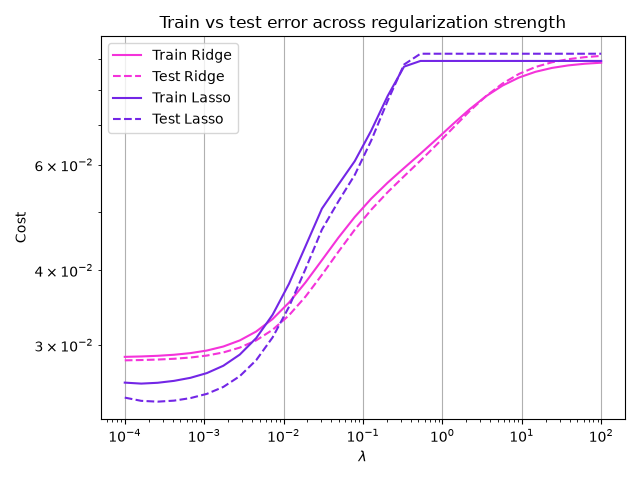
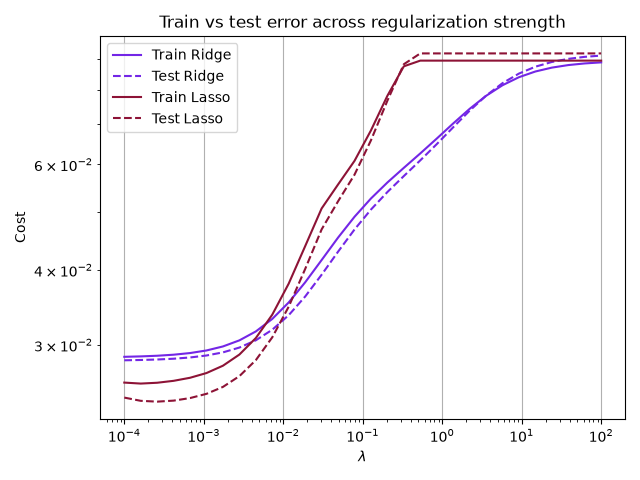
updated figures

diff --git a/Project_1/Code/_Part_g.py b/Project_1/Code/_Part_g.py
@@ -103,10 +103,10 @@ print(f"theta: |skl - cd| = {np.max(np.abs(theta_skl_lasso - history_lasso_cd[-1
 
 
 """Plot of cost vs iteration"""
-plt.plot(cost_Lasso_gd, label = "Lasso gradient descent", color = "#5DA0B6")
-plt.plot(cost_Lasso_cd, label = "Lasso coordinate descent", color = "#65AF60")
-plt.plot(cost_OLS, label = "OLS", color = "#F433DA")
-plt.plot(cost_Ridge, label = "Ridge", color = "#7326E6")
+plt.plot(cost_Lasso_gd, label = "Lasso gradient descent", color = LASSO_GD)
+plt.plot(cost_Lasso_cd, label = "Lasso coordinate descent", color = LASSE_COORDINATE_DESCENT)
+plt.plot(cost_OLS, label = "OLS", color = OLS)
+plt.plot(cost_Ridge, label = "Ridge", color = RIDGE)
 plt.xlabel("Iteration")
 plt.ylabel("Cost")
 plt.title("Cost function of gradient descent")
@@ -114,7 +114,7 @@ plt.xscale("log")
 #plt.yscale("log")
 plt.grid()
 plt.legend()
-plt.savefig(FIG_DIR/"Part_g_convergence_Lasso.png")
+#plt.savefig(FIG_DIR/"Part_g_convergence_Lasso.png")
 plt.show()
 
 
@@ -144,15 +144,15 @@ x = np.arange(len(labels))
 width = 0.35
 
 plt.figure(figsize=(8, 5))
-plt.bar(x - width/2, train_vals, width, label="Train MSE", color="#F433DA", alpha = 0.7)
-plt.bar(x + width/2, test_vals, width, label="Test MSE", color="#7326E6", alpha = 0.7)
+plt.bar(x - width/2, train_vals, width, label="Train MSE", color=TRAIN_DATA, alpha = 0.7)
+plt.bar(x + width/2, test_vals, width, label="Test MSE", color=TEST_DATA, alpha = 0.7)
 plt.xticks(x, labels, rotation=15)
 plt.ylabel("MSE")
 plt.title("Train vs. test MSE: OLS, Ridge, Lasso")
 plt.legend()
 plt.grid(axis='y', alpha=0.3)
 plt.tight_layout()
-plt.savefig(FIG_DIR/"Part_g_hist_testtrain_lasso.png")
+#plt.savefig(FIG_DIR/"Part_g_hist_testtrain_lasso.png")
 plt.show()
 
 """For different lambda values, comparing test and train"""
@@ -180,10 +180,10 @@ for lm in lambdas:
     thetas_Ridge.append(theta_lm_Ridge)     
     thetas_Lasso.append(theta_lm_Lasso)     
 
-plt.plot(lambdas, train_errs_Ridge, label="Train Ridge", color = "#F433DA")
-plt.plot(lambdas, test_errs_Ridge, label="Test Ridge", color = "#F433DA", linestyle = "--")
-plt.plot(lambdas, train_errs_Lasso, label="Train Lasso", color = "#7326E6")
-plt.plot(lambdas, test_errs_Lasso, label="Test Lasso", color = "#7326E6", linestyle = "--")
+plt.plot(lambdas, train_errs_Ridge, label="Train Ridge", color = RIDGE)
+plt.plot(lambdas, test_errs_Ridge, label="Test Ridge", color = RIDGE, linestyle = "--")
+plt.plot(lambdas, train_errs_Lasso, label="Train Lasso", color = LASSO)
+plt.plot(lambdas, test_errs_Lasso, label="Test Lasso", color = LASSO, linestyle = "--")
 plt.xscale("log")
 plt.yscale("log")
 plt.xlabel(r"$\lambda$")
@@ -192,12 +192,12 @@ plt.title("Train vs test error across regularization strength")
 plt.legend()
 plt.tight_layout()
 plt.grid()
-plt.savefig(FIG_DIR/"Part_g_cost_lambda_testtrain.png")
+#plt.savefig(FIG_DIR/"Part_g_cost_lambda_testtrain.png")
 plt.show()
 
 fig, (ax1, ax2) = plt.subplots(2, 1, figsize=(7, 7), sharey=True)
 
 plot_theta(thetas_Ridge, lambdas, xlabel=r'$\lambda$', title='Ridge coefficients', intercept=False, xlog=True, ax=ax1)
 plot_theta(thetas_Lasso, lambdas, xlabel=r'$\lambda$', title='Lasso coefficients', intercept=False, xlog=True, ax=ax2)
-plt.savefig(FIG_DIR/"Part_g_theta_lambda.png")
+#plt.savefig(FIG_DIR/"Part_g_theta_lambda.png")
 plt.show()

diff --git a/Project_1/Code/_Part_h.py b/Project_1/Code/_Part_h.py
@@ -49,9 +49,9 @@ H_Ridge = 2.0 / len(y) * X.T @ X + 2 * lam * np.eye(X.shape[1])
 gamma_max_OLS = 2.0 / np.linalg.eigvalsh(H_OLS).max()
 gammas_OLS = [0.01 * gamma_max_OLS, 0.1 * gamma_max_OLS, 0.5 * gamma_max_OLS]
 labels_gamma = [r"$0.01\, \gamma_{\max}$", r"$0.1\, \gamma_{\max}$", r"$0.5\, \gamma_{\max}$"]
-colors = ["#F433DA", "#7326E6", "#84BCED"]
+colors_gamma = [LR_LOW, LR_MID, LR_HIGH]
 
-for gamma, label, color in zip(gammas_OLS, labels_gamma, colors):
+for gamma, label, color in zip(gammas_OLS, labels_gamma, colors_gamma):
     hist, n_gamma = sgd(X, y, n_epochs=100, batch_size=5, gamma=gamma, lmbda = lam)
     cost_gamma = cost_history(hist, X, y, penalty = "None")
 
@@ -66,15 +66,16 @@ plt.yscale("log")
 plt.legend()
 plt.grid()
 plt.tight_layout()
-plt.savefig(FIG_DIR/"Part_h_cost_learningrates.png")
+#plt.savefig(FIG_DIR/"Part_h_cost_learningrates.png")
 plt.show()
 
 
 """Studying varying batch sizes"""
 batches = [10, 20, 30]
 labels_M = [f"$M = {batches[0]}$", f"$M = {batches[1]}$", f"$M = {batches[2]}$"]
+colors_batch = [BATCH_SMALL, BATCH_MED, BATCH_LARGE]
 
-for M, label, color in zip(batches, labels_M, colors):
+for M, label, color in zip(batches, labels_M, colors_batch):
     hist, n_M = sgd(X, y, n_epochs=100, batch_size=M, gamma=gamma_max_OLS)
     cost_M = cost_history(hist, X, y, penalty = "None")
     
@@ -89,7 +90,7 @@ plt.yscale("log")
 plt.legend()
 plt.grid()
 plt.tight_layout()
-plt.savefig(FIG_DIR/"Part_h_cost_batchsize.png")
+#plt.savefig(FIG_DIR/"Part_h_cost_batchsize.png")
 plt.show()
 
 
@@ -126,10 +127,10 @@ print(f"theta: |sgd - gd| = {np.max(np.abs(history_Ridge[-1] - history_Ridge_sgd
 
 
 """Plot of cost vs iteration"""
-plt.plot(cost_OLS, label = "OLS GD", color = "#F433DA")
-plt.plot(cost_OLS_sgd, label = "OLS SGD", color = "#F433DA", linestyle = "--", alpha = 0.4)
-plt.plot(cost_Ridge, label = "Ridge GD", color = "#7326E6")
-plt.plot(cost_Ridge_sgd, label = "Ridge SGD", color = "#7326E6", linestyle = "--", alpha = 0.4)
+plt.plot(cost_OLS, label = "OLS GD", color = OLS)
+plt.plot(cost_OLS_sgd, label = "OLS SGD", color = OLS, linestyle = "--", alpha = 0.4)
+plt.plot(cost_Ridge, label = "Ridge GD", color = RIDGE)
+plt.plot(cost_Ridge_sgd, label = "Ridge SGD", color = RIDGE, linestyle = "--", alpha = 0.4)
 plt.xlabel("Iteration")
 plt.ylabel("Cost")
 plt.title("Cost function of stochastic gradient descent")
@@ -138,7 +139,7 @@ plt.yscale("log")
 plt.grid()
 plt.tight_layout()
 plt.legend()
-plt.savefig(FIG_DIR/"Part_h_sgd_OLS_Ridge.png")
+#plt.savefig(FIG_DIR/"Part_h_sgd_OLS_Ridge.png")
 plt.show()
 
 
@@ -171,13 +172,13 @@ x = np.arange(len(labels))
 width = 0.35
 
 plt.figure(figsize=(8, 5))
-plt.bar(x - width/2, train_vals, width, label="Train MSE", color="#F433DA", alpha = 0.7)
-plt.bar(x + width/2, test_vals, width, label="Test MSE", color="#7326E6", alpha = 0.7)
+plt.bar(x - width/2, train_vals, width, label="Train MSE", color=TRAIN_DATA, alpha = 0.7)
+plt.bar(x + width/2, test_vals, width, label="Test MSE", color=TEST_DATA, alpha = 0.7)
 plt.xticks(x, labels, rotation=15)
 plt.ylabel("MSE")
 plt.title("Train vs. test MSE: OLS, Ridge, Lasso")
 plt.legend()
 plt.grid(axis='y', alpha=0.3)
 plt.tight_layout()
-plt.savefig(FIG_DIR/"Part_h_hist_testtrain_sgd.png")
+#plt.savefig(FIG_DIR/"Part_h_hist_testtrain_sgd.png")
 plt.show()

diff --git a/Project_1/Code/colors.py b/Project_1/Code/colors.py
@@ -30,22 +30,24 @@ GAMMA_BEST = '#26B3E6'	#sky blue / cyan
 LASSO_GD = '#5DA0B6'			#muted teal / steel blue
 LASSE_COORDINATE_DESCENT = '#65AF60'	#muted green /sage
 
+THETA_COLORS = [
+    '#E8546B',  #coral red
+    '#4C9F70',  #emerald green
+    '#5B7FDE',  #periwinkle blue
+    '#E8A33D',  #gold
+    '#9B59B6',  #purple
+    '#2FB8AF',  #teal
+    '#E67E22',  #burnt orange
+    '#34495E',  #slate
+]
+
 #OPPGAVE H
+"""Studying varying learning rate (light -> dark = increasing gamma)"""
+LR_LOW  = '#AFC6F0'   # pale periwinkle
+LR_MID  = '#5C85D6'   # medium blue
+LR_HIGH = '#1B3B80'   # deep navy-blue
 
-#Disse 2 bruker samme farger, tror ikke det er super viktig men bare noterer det ned:
-
-"""Studying varying learning rate"""
-labels_gamma = [r"$0.01\, \gamma_{\max}$", r"$0.1\, \gamma_{\max}$", r"$0.5\, \gamma_{\max}$"]
-colors = ["#F433DA", "#7326E6", "#84BCED"]
-
-"""Studying varying batch sizes"""
-labels_M = lambda batches: [f"$M = {batches[0]}$", f"$M = {batches[1]}$", f"$M = {batches[2]}$"]
-colors = ["#F433DA", "#7326E6", "#84BCED"]
-
-
-"""
-"#F433DA", magenta 
-"#7326E6", violet
-"#84BCED" light blue/pale sky blue
-
-"""
+"""Studying varying batch sizes (light -> dark = increasing M)"""
+BATCH_SMALL = '#F2B6C0'   # pale rose
+BATCH_MED   = '#D9607A'   # medium rose/coral
+BATCH_LARGE = '#8A1F3D'   # deep wine

diff --git a/Project_1/Code/plots.py b/Project_1/Code/plots.py
@@ -6,6 +6,7 @@ This python file contains the function(s?) used throughout this project to plot 
 import matplotlib.pyplot as plt
 import numpy as np
 from matplotlib.colors import LogNorm
+from colors import *
 
 
 def plot_heatmap_grid(data, xvals, yvals, title, cbar_label, xlabel='Number of data points n',
@@ -77,7 +78,13 @@ def plot_theta(thetas, x_values, xlabel='Polynomial Degree',
     else:
         fig = ax.figure
 
-    colors = plt.cm.viridis(np.linspace(0, 1, n_plot))   # one distinct color per coefficient
+
+    if n_plot <= len(THETA_COLORS):
+        colors = THETA_COLORS[:n_plot]
+    else:
+        colors = plt.cm.viridis(np.linspace(0, 1, n_plot))
+
+    #colors = plt.cm.viridis(np.linspace(0, 1, n_plot))   #one distinct color per coefficient
     for j in range(n_plot):
         ax.plot(x_values, theta_matrix[:, j], color=colors[j], label=rf'$\theta_{{{j + start}}}$')
 
